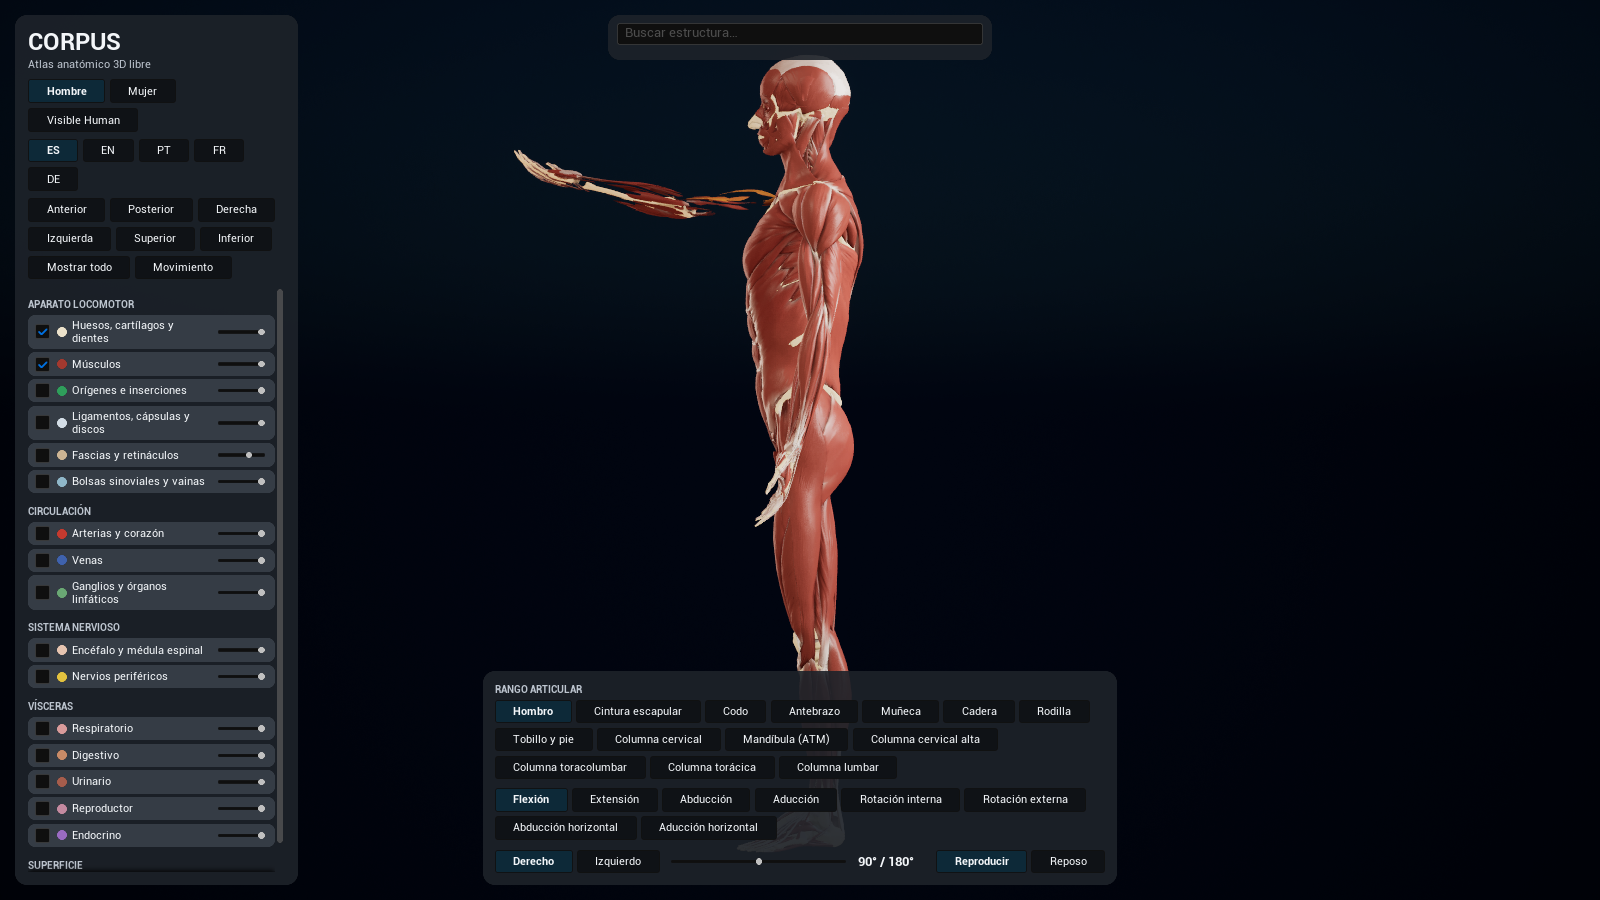
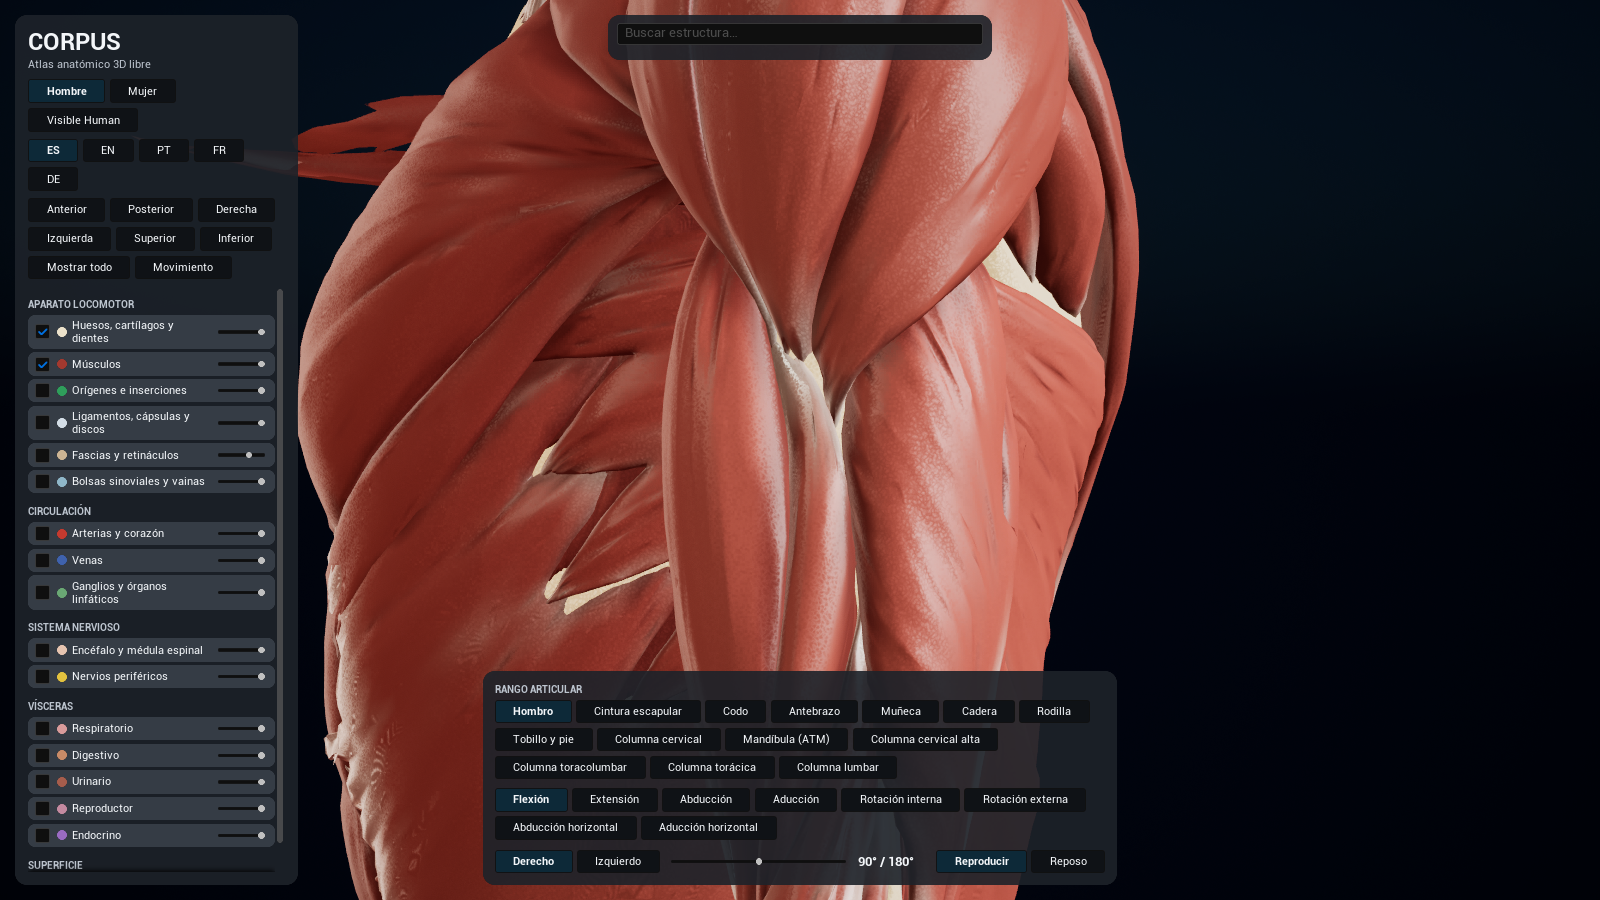
Unreal movimiento: musculos elasticos anclados al hueso y escapula sobre las costillas
Trapecio, romboides, serrato, deltoides y manguito con pesos armonicos entre sus anclajes oseos;
la escapula conserva su angulo inferior pegado a la parrilla costal (bascula anadida a la
acromioclavicular) y el dorsal ancho lo cubre. Capturas mov_13 y mov_14 de cerca.

diff --git a/tools/unreal/movimiento.js b/tools/unreal/movimiento.js
@@ -52,6 +52,12 @@ function vista(g, acc) {
   for (let i = 0; i < a.count; i++) for (let c = 0; c < nc; c++) out[i * nc + c] = f[(base >> 2) + i * st + c];
   return out;
 }
+function indices(g, acc) {
+  const a = g.j.accessors[acc], v = g.j.bufferViews[a.bufferView], o = g.bin.byteOffset + (v.byteOffset || 0) + (a.byteOffset || 0);
+  if (a.componentType === 5125) return new Uint32Array(g.bin.buffer.slice(o, o + a.count * 4));
+  if (a.componentType === 5123) return new Uint16Array(g.bin.buffer.slice(o, o + a.count * 2));
+  return new Uint8Array(g.bin.buffer.slice(o, o + a.count));
+}
 /* escribe el GLB con los TEXCOORD nuevos; el BIN se rehace solo con las vistas que se usan */
 function escribeGLB(f, g, nuevos) {
   const j = g.j, partes = [];
@@ -95,7 +101,8 @@ const PREPARA = `(async()=>{
   const b64e=u8=>{if(u8.toBase64)return u8.toBase64();let s='';for(let i=0;i<u8.length;i+=0x8000)s+=String.fromCharCode.apply(null,u8.subarray(i,i+0x8000));return btoa(s);};
   const b64d=s=>{if(Uint8Array.fromBase64)return Uint8Array.fromBase64(s);const b=atob(s),a=new Uint8Array(b.length);for(let i=0;i<b.length;i++)a[i]=b.charCodeAt(i);return a;};
   const AX=L.length+1,NA=L.length;
-  window.__movW=(en,side,sys,b64)=>{const u8=b64d(b64),pos=new Float32Array(u8.buffer,u8.byteOffset,u8.length>>2),n=pos.length/3;
+  const HARM=/^((Ascending|Descending|Transverse) part of trapezius|Rhomboid (major|minor)|Levator scapulae|Serratus anterior|Pectoralis minor|Subclavius|(Clavicular|Acromial|Scapular spinal) part of deltoid|Supraspinatus|Infraspinatus|Teres minor|Subscapularis)( muscle)?$/;
+  window.__movW=(en,side,sys,b64,b64i)=>{const u8=b64d(b64),pos=new Float32Array(u8.buffer,u8.byteOffset,u8.length>>2),n=pos.length/3;const i8=b64i?b64d(b64i):null,idx=i8?new Uint32Array(i8.buffer,i8.byteOffset,i8.length>>2):null;
     let x0=1e9,y0=1e9,z0=1e9,x1=-1e9,y1=-1e9,z1=-1e9;for(let i=0;i<n;i++){const x=pos[i*3],y=pos[i*3+1],z=pos[i*3+2];if(x<x0)x0=x;if(x>x1)x1=x;if(y<y0)y0=y;if(y>y1)y1=y;if(z<z0)z0=z;if(z>z1)z1=z;}
     const c=new V3((x0+x1)/2,(y0+y1)/2,(z0+z1)/2);let r=0;for(let i=0;i<n;i++)r=Math.max(r,Math.hypot(pos[i*3]-c.x,pos[i*3+1]-c.y,pos[i*3+2]-c.z));
     const m={userData:{c:{en,side},sys},geometry:{attributes:{position:{array:pos}},boundingSphere:{center:c,radius:r},index:null}};
@@ -111,6 +118,32 @@ const PREPARA = `(async()=>{
       const Ix=pos[bi*3],Iy=pos[bi*3+1],Iz=pos[bi*3+2],Wd=new Float32Array(n);
       for(let i=0;i<n;i++){let t=(Math.hypot(pos[i*3]-Ix,pos[i*3+1]-Iy,pos[i*3+2]-Iz)-TD[2])/TD[3];t=t<0?0:t>1?1:t;Wd[i]=1-t*t*(3-2*t);}
       L.forEach((k,q)=>{const [nd,sd]=k.split('_');if(sd===Sd&&TD[1].test(nd))Ws[q]=[Wd,true];else if(/^(elbow|fore|wrist|hip|knee)$/.test(nd)||(sd&&sd!==Sd&&/^(shoulder|acr|sc)$/.test(nd)))Ws[q]=[null,false];});}
+    /* Músculos tendidos entre dos huesos de la cintura escapular (mejora sobre la web, donde el trapecio, los romboides o
+       el serrato no acompañan a la escápula y lo que hay debajo los atraviesa). Cada músculo queda anclado a sus huesos:
+       donde toca la escápula va con ella, donde toca vértebras o costillas se queda, donde toca el húmero va con él.
+       Entre los anclajes el peso es armónico (ecuación de Laplace sobre la malla): el estiramiento se reparte de forma
+       continua por toda la fibra, sin escalones ni zonas rígidas. */
+    if(idx&&HARM.test(en)&&(side==='derecho'||side==='izquierdo')){const Sd=side==='derecho'?'R':'L';
+      if(!window.__huesos){const cs=0.012,H=new Map();for(const b of meshes){const u=b.userData;if(!u.c||BS(u.sys)!=='oseo'||u.sys!=='oseo')continue;const part=skPartOf(b),a=u.rest||b.geometry.attributes.position.array;
+          for(let i=0;i<a.length;i+=3){const k=Math.floor(a[i]/cs)+','+Math.floor(a[i+1]/cs)+','+Math.floor(a[i+2]/cs);let l=H.get(k);if(!l)H.set(k,l=[]);l.push(a[i],a[i+1],a[i+2],part);}}window.__huesos={cs,H};}
+      const {cs,H}=window.__huesos,RA=0.012,ESC=/trapezius|Rhomboid|Levator scapulae|Serratus anterior|Pectoralis minor|Subclavius/.test(en);/* ESC: unen tórax y escápula, no llegan al húmero */
+      /* vértices soldados por posición y vecinos */
+      const uid=new Int32Array(n),M=new Map();let nu=0;for(let v=0;v<n;v++){const k=Math.round(pos[v*3]*2e4)+','+Math.round(pos[v*3+1]*2e4)+','+Math.round(pos[v*3+2]*2e4);let q=M.get(k);if(q===undefined){q=nu++;M.set(k,q);}uid[v]=q;}
+      const rep=new Int32Array(nu).fill(-1);for(let v=0;v<n;v++)if(rep[uid[v]]<0)rep[uid[v]]=v;
+      const nb=Array.from({length:nu},()=>new Set());for(let t=0;t<idx.length;t+=3){const a=uid[idx[t]],b=uid[idx[t+1]],c=uid[idx[t+2]];if(a!==b){nb[a].add(b);nb[b].add(a);}if(b!==c){nb[b].add(c);nb[c].add(b);}if(a!==c){nb[a].add(c);nb[c].add(a);}}
+      const NB=nb.map(s=>Int32Array.from(s));
+      /* hueso más cercano a cada vértice (a menos de 12 mm) */
+      const ancla=new Array(nu).fill(null);for(let q=0;q<nu;q++){const v=rep[q],x=pos[v*3],y=pos[v*3+1],z=pos[v*3+2],fx=Math.floor(x/cs),fy=Math.floor(y/cs),fz=Math.floor(z/cs);let bd=RA*RA,bp=null;
+        for(let a=-1;a<=1;a++)for(let b=-1;b<=1;b++)for(let c=-1;c<=1;c++){const l=H.get((fx+a)+','+(fy+b)+','+(fz+c));if(!l)continue;for(let t=0;t<l.length;t+=4){const d=(l[t]-x)**2+(l[t+1]-y)**2+(l[t+2]-z)**2;if(d<bd){bd=d;bp=l[t+3];}}}ancla[q]=bp;}
+      for(const nodo of ['shoulder','acr','sc']){const kq=L.indexOf(nodo+'_'+Sd);if(kq<0)continue;if(ESC&&nodo==='shoulder'){Ws[kq]=[null,false];continue;}const W0=Ws[kq][0];
+        const fijo=new Float32Array(nu).fill(-1);let n0=0,n1=0;for(let q=0;q<nu;q++){if(ancla[q]===null)continue;const f=skF(ancla[q],nodo,Sd)>0?1:0;fijo[q]=f;if(f)n1++;else n0++;}
+        if(n0<4||n1<4)continue;/* sin dos anclajes distintos se dejan los pesos de la web */
+        const x=new Float32Array(nu);for(let q=0;q<nu;q++)x[q]=fijo[q]>=0?fijo[q]:(W0?Math.min(1,W0[rep[q]]):0.5);
+        for(let it=0;it<1500;it++){let dmax=0;for(let q=0;q<nu;q++){if(fijo[q]>=0)continue;const l=NB[q];if(!l.length)continue;let s=0;for(let t=0;t<l.length;t++)s+=x[l[t]];const nv=s/l.length,d=Math.abs(nv-x[q]);if(d>dmax)dmax=d;x[q]=nv;}if(dmax<2e-5)break;}
+        const Wn=new Float32Array(n);for(let v=0;v<n;v++)Wn[v]=x[uid[v]];Ws[kq]=[Wn,true];}
+      /* los que se insertan en la escapula la siguen igual en sus dos articulaciones (acromioclavicular y esternoclavicular) */
+      if(ESC&&!/Subclavius|Descending/.test(en)){const qa=L.indexOf('acr_'+Sd),qs=L.indexOf('sc_'+Sd);if(Ws[qs][0]&&!Ws[qa][0])Ws[qa]=[Ws[qs][0],Ws[qs][1]];}
+      L.forEach((k,q)=>{const [nd,sd]=k.split('_');if(/^(elbow|fore|wrist|hip|knee)$/.test(nd)||(sd&&sd!==Sd&&/^(shoulder|acr|sc)$/.test(nd)))Ws[q]=[null,false];});}
     /* articulaciones que mueven la pieza (algún vértice con peso ≥ 0,002), en el orden en que las aplica deform() */
     let S=[];for(let k=0;k<NA;k++){const W=Ws[k][0];if(!W)continue;let mx=0;for(let v=0;v<n;v++)if(W[v]>mx)mx=W[v];if(mx>=0.002)S.push({i:k+1,W,lin:Ws[k][1],mx});}
     /* articulaciones seguidas (en este orden) que pesan lo mismo en toda la pieza van juntas en un hueco, hasta 3:
@@ -196,6 +229,46 @@ const PREPARA = `(async()=>{
     const filas = caja.map((c, k) => { let a = [0, 0, 0, 0], m = 0; for (let d = -2; d <= 2; d++) { const q = caja[k + d]; if (!q || q[0] > q[1]) continue; for (let t = 0; t < 4; t++) a[t] += q[t]; m++; }
       if (!m) return [0, 0, 0]; a = a.map(v => v / m); return [f((a[2] + a[3]) / 2), f((a[1] - a[0]) / 2), f((a[3] - a[2]) / 2)]; });
     return { y0, dy, filas }; })();
+  /* ── mejora sobre la web: la escápula resbala pegada a las costillas ──
+     Con las posturas de la web, al rotar hacia arriba el ángulo inferior de la escápula se despega varios centímetros de
+     la parrilla costal (asoma por la espalda). Aquí se añade a la acromioclavicular el giro mínimo, alrededor del eje
+     perpendicular al brazo de palanca acromion → ángulo inferior, que devuelve el ángulo a su distancia de reposo del
+     contorno del tórax; la glenohumeral se recalcula para que el húmero quede exactamente donde estaba. */
+  {
+    const rig = JSON.parse(fs.readFileSync(path.join(RAIZ, 'data', 'rig.json'), 'utf8'));
+    const qAA = (ax, an) => { const s = Math.sin(an / 2); return [ax[0] * s, ax[1] * s, ax[2] * s, Math.cos(an / 2)]; };
+    const qMul = (a, b) => [a[3] * b[0] + a[0] * b[3] + a[1] * b[2] - a[2] * b[1], a[3] * b[1] - a[0] * b[2] + a[1] * b[3] + a[2] * b[0], a[3] * b[2] + a[0] * b[1] - a[1] * b[0] + a[2] * b[3], a[3] * b[3] - a[0] * b[0] - a[1] * b[1] - a[2] * b[2]];
+    const qInv = q => [-q[0], -q[1], -q[2], q[3]];
+    const qRot = (q, v) => { const u = [q[0], q[1], q[2]], c1 = [u[1] * v[2] - u[2] * v[1], u[2] * v[0] - u[0] * v[2], u[0] * v[1] - u[1] * v[0]].map(x => 2 * x);
+      const c2 = [u[1] * c1[2] - u[2] * c1[1], u[2] * c1[0] - u[0] * c1[2], u[0] * c1[1] - u[1] * c1[0]]; return v.map((x, i) => x + q[3] * c1[i] + c2[i]); };
+    const aAA = q => { if (q[3] < 0) q = q.map(x => -x); const an = 2 * Math.acos(Math.min(1, q[3])), s = Math.sqrt(Math.max(0, 1 - q[3] * q[3])); return s > 1e-6 ? [q[0] / s, q[1] / s, q[2] / s, an] : [1, 0, 0, 0]; };
+    const cont = y => { const h = Math.max(0, Math.min(torax.filas.length - 1.001, (y - torax.y0) / torax.dy)), a = Math.floor(h), f = h - a, A = torax.filas[a], B = torax.filas[a + 1]; return A.map((v, i) => v + (B[i] - v) * f); };
+    const kDe = p => { const c = cont(p[1]); return [Math.hypot(p[0] / c[1], (p[2] - c[0]) / c[2]), c]; };
+    const sobre = (p, piv, q) => qRot(q, p.map((x, i) => x - piv[i])).map((x, i) => x + piv[i]);
+    let nfix = 0, amax = 0;
+    for (const r of rom) for (const M of r.movs) for (const S of ['R', 'L']) { if (!M[S]) continue;
+      const iA = R.L.indexOf('acr_' + S), iC = R.L.indexOf('sc_' + S), iH = R.L.indexOf('shoulder_' + S), pA = R.piv[iA], pC = R.piv[iC], tip0 = rig['scapBot_' + S], k0 = kDe(tip0)[0];
+      M[S] = M[S].map(fr => { const ops = []; for (let k = 0; k < fr.length; k += 8) ops.push(fr.slice(k, k + 8));
+        const oA = ops.find(o => o[0] === iA); if (!oA) return fr;
+        const oC = ops.find(o => o[0] === iC), oH = ops.find(o => o[0] === iH);
+        const qA = qAA(oA.slice(1, 4), oA[4]), qC = oC ? qAA(oC.slice(1, 4), oC[4]) : [0, 0, 0, 1];
+        const tipA = sobre(tip0, pA, qA), fin = q => sobre(sobre(tip0, pA, q), pC, qC);
+        const [k1, c] = kDe(fin(qA)), tol = 0.004 / (0.5 * (c[1] + c[2]));
+        if (k1 <= k0 + tol) return fr;
+        /* eje: perpendicular a la palanca y a la normal de la pared torácica, llevado al marco anterior a la esternoclavicular */
+        const t = fin(qA), nrm = [t[0] / (c[1] * c[1]), 0, (t[2] - c[0]) / (c[2] * c[2])], v = t.map((x, i) => x - sobre(pA, pC, qC)[i]);
+        let eje = [v[1] * nrm[2] - v[2] * nrm[1], v[2] * nrm[0] - v[0] * nrm[2], v[0] * nrm[1] - v[1] * nrm[0]]; const le = Math.hypot(...eje); if (le < 1e-9) return fr; eje = qRot(qInv(qC), eje.map(x => x / le));
+        const kCon = an => kDe(fin(qMul(qAA(eje, an), qA)))[0];
+        /* el signo que acerca, y bisección hasta la distancia de reposo */
+        const sg = kCon(0.05) < kCon(-0.05) ? 1 : -1; let lo = 0, hi = 0.7;
+        if (kCon(sg * hi) > k0 + tol) lo = hi; else for (let it = 0; it < 24; it++) { const m = (lo + hi) / 2; if (kCon(sg * m) > k0 + tol) lo = m; else hi = m; }
+        const an = sg * (lo === 0.7 ? 0.7 : hi), qA2 = qMul(qAA(eje, an), qA); nfix++; amax = Math.max(amax, Math.abs(an));
+        const f5 = x => Math.round(x * 1e5) / 1e5, a2 = aAA(qA2);
+        oA[1] = f5(a2[0]); oA[2] = f5(a2[1]); oA[3] = f5(a2[2]); oA[4] = f5(a2[3]);
+        if (oH) { const qH = qAA(oH.slice(1, 4), oH[4]), h2 = aAA(qMul(qInv(qA2), qMul(qA, qH))); oH[1] = f5(h2[0]); oH[2] = f5(h2[1]); oH[3] = f5(h2[2]); oH[4] = f5(h2[3]); }
+        return ops.flat(); }); }
+    console.log('Escápula sobre las costillas: %d posturas corregidas, giro añadido máximo %s°', nfix, (amax * 57.2958).toFixed(1));
+  }
   const abrazo = {};
   for (const c of CUERPOS) { const g = leeGLB(path.join(IMP, c, 'muscular.glb'));
     abrazo[c] = g.j.nodes.filter(nd => /^(Latissimus dorsi muscle|Teres major muscle|.* of pectoralis major muscle)$/.test((nd.extras || {}).en || '')).map(nd => nd.name); }
@@ -227,7 +300,8 @@ const PREPARA = `(async()=>{
         for (const prim of g.j.meshes[nodo.mesh].primitives) {
           const pos = vista(g, prim.attributes.POSITION), n = pos.length / 3;
           for (const k of Object.keys(prim.attributes)) if (/^TEXCOORD_/.test(k)) delete prim.attributes[k];
-          const r = await E('(en,side,sys,b)=>__movW(en,side,sys,b)', ex.en || '', ex.lado || '', sys, Buffer.from(pos.buffer).toString('base64'));
+          const ind = f === 'muscular.glb' ? Buffer.from(Uint32Array.from(indices(g, prim.indices)).buffer).toString('base64') : '';
+          const r = await E('(en,side,sys,b,bi)=>__movW(en,side,sys,b,bi)', ex.en || '', ex.lado || '', sys, Buffer.from(pos.buffer).toString('base64'), ind);
           const w = r.w ? new Float32Array(new Uint8Array(Buffer.from(r.w, 'base64')).buffer) : new Float32Array(n * 8);
           nuevos.push([prim, w]); nv += n; if (r.moved) { mv++; P[nodo.name] = r.huecos; } if (r.over) { ov++; console.log('    aviso: %s (%s) usa %d articulaciones de más', nodo.name, ex.en, r.over); }
         }

diff --git a/unreal/CorpusAtlas/Content/Python/corpus_importar.py b/unreal/CorpusAtlas/Content/Python/corpus_importar.py
@@ -183,6 +183,33 @@ float wl = 0;
                 float s = lerp(1, kt / max(k1, 1e-4), val);
                 g.x *= s;
                 g.z = c1.x + (g.z - c1.x) * s;
+                // El borde superior del dorsal cubre el ángulo inferior de la escápula: al rotar la escápula hacia arriba
+                // (ritmo escapulohumeral) el ángulo se desliza hacia fuera por debajo del músculo, que se abomba sobre él.
+                if (HUG > 1.5)
+                {
+                    bool der = g0.x < 0;
+                    int ja = der ? ACR_R : ACR_L, jc = der ? SC_R : SC_L;
+                    float3 b = float3(der ? SBX : -(SBX), SBY, SBZ);
+                    float4 qa = Tex.Load(int3(ja, 0, 0)); float3 pa = Tex.Load(int3(ja, 1, 0)).xyz;
+                    float sa, ca; sincos(qa.w, sa, ca);
+                    float3 db = b - pa;
+                    b = db * ca + cross(qa.xyz, db) * sa + qa.xyz * dot(qa.xyz, db) * (1 - ca) + pa;
+                    float4 qc = Tex.Load(int3(jc, 0, 0)); float3 pc = Tex.Load(int3(jc, 1, 0)).xyz;
+                    sincos(qc.w, sa, ca);
+                    db = b - pc;
+                    b = db * ca + cross(qc.xyz, db) * sa + qc.xyz * dot(qc.xyz, db) * (1 - ca) + pc;
+                    // el dorsal queda siempre un poco por fuera de donde está el ángulo inferior en esta postura
+                    float hb = clamp((b.y - Y0) / DY, 0, 31);
+                    int ab = (int)floor(hb);
+                    float3 cb = lerp(Tex.Load(int3(ab, 3, 0)).xyz, Tex.Load(int3(min(ab + 1, 31), 3, 0)).xyz, hb - ab);
+                    float kb = length(float2(b.x / cb.y, (b.z - cb.x) / cb.z)) + 0.016 / (0.5 * (cb.y + cb.z));
+                    float kg = length(float2(g.x / c1.y, (g.z - c1.x) / c1.z));
+                    float cerca = 1 - smoothstep(0.045, 0.14, length(g - b));
+                    float kn = max(kg, lerp(kg, kb, cerca));
+                    float sb2 = kn / max(kg, 1e-4);
+                    g.x *= sb2;
+                    g.z = c1.x + (g.z - c1.x) * sb2;
+                }
             }
         }
     }
@@ -270,6 +297,12 @@ def _postura(g):
     mov = _datos_mov()
     codigo = (HLSL_POSTURA.replace("NA_TRONCO", str(len(mov["articulaciones"]) - 2))
               .replace("Y0", repr(float(mov["torax"]["y0"]))).replace("DY", repr(float(mov["torax"]["dy"]))))
+    arts = [a["id"] for a in mov["articulaciones"]]
+    with open(os.path.join(IMPORTAR, "datos", "rig.json"), encoding="utf-8") as h:
+        sb = json.load(h)["scapBot_R"]          # ángulo inferior de la escápula derecha (la izquierda, en espejo)
+    for k, v in (("ACR_R", arts.index("acr_R")), ("ACR_L", arts.index("acr_L")), ("SC_R", arts.index("sc_R")), ("SC_L", arts.index("sc_L")),
+                 ("SBX", sb[0]), ("SBY", sb[1]), ("SBZ", sb[2])):
+        codigo = codigo.replace(k, repr(v))
     cu = _custom(g, codigo, ["Tex", "P", "U0", "U1", "U2", "U3"] + ["J%d" % i for i in range(8)] + ["HUG"], CMOT.CMOT_FLOAT3,
                  extra=[("Q", CMOT.CMOT_FLOAT4)], desc="Postura (rig de la web)")
     g.une(tex, cu, "Tex")

diff --git a/unreal/CorpusAtlas/Source/CorpusAtlas/CorpusCuerpo.cpp b/unreal/CorpusAtlas/Source/CorpusAtlas/CorpusCuerpo.cpp
@@ -286,7 +286,8 @@ void ACorpusCuerpo::CargarCapa(const FString& Clave)
 			C->SetCustomPrimitiveDataVector4(12, FVector4(V[0], V[1], V[2], V[3]));
 			C->SetCustomPrimitiveDataVector4(16, FVector4(V[4], V[5], V[6], V[7]));
 		}
-		C->SetCustomPrimitiveDataFloat(20, D->SePegaAlTorax(Carpeta, P.Id) ? 1.f : 0.f);
+		// 1 = pegada a la parrilla costal; 2 = además cubre el ángulo inferior de la escápula (dorsal ancho)
+		C->SetCustomPrimitiveDataFloat(20, D->SePegaAlTorax(Carpeta, P.Id) ? (P.En.StartsWith(TEXT("Latissimus")) ? 2.f : 1.f) : 0.f);
 		if (RangoActual >= 0) { AjustarLimites(C); }
 		Piezas.Add(P.Id, C);
 		Ids.Add(P.Id);

diff --git a/unreal/LEEME.md b/unreal/LEEME.md
@@ -128,6 +128,17 @@ Reimportar las mallas (`importar_mallas`) tarda 1 h 45 min; `_aplanar` sustituye
 - **Pegados a la parrilla costal** (`abrazo` en `movimiento.json`, dato primitivo 20): fila 3 de la textura de postura =
   contorno del tórax cada 1,25 cm (centro z, radio x, radio z). Antes de girar el tronco, el material devuelve cada punto a
   su distancia de reposo al contorno, con holgura creciente hacia el húmero (misma regla que `latHug`, sin corte brusco).
+- **Músculos elásticos anclados a sus huesos** (tabla `HARM`: trapecio, romboides, elevador, serrato, pectoral menor,
+  subclavio, deltoides y manguito). En la web el trapecio y los romboides no acompañaban a la escápula y lo de debajo los
+  atravesaba. Cada vértice a menos de 12 mm de un hueso queda anclado a él y entre los anclajes el peso es armónico
+  (Laplace sobre la malla): el estiramiento se reparte de forma continua por toda la fibra.
+- **La escápula resbala pegada a las costillas:** con las posturas de la web el ángulo inferior se despegaba (hacían
+  falta hasta 20° para devolverlo). `movimiento.js` añade a la acromioclavicular la báscula mínima que lo deja a su
+  distancia de reposo del contorno del tórax y recalcula la glenohumeral (188 posturas). El dorsal ancho (dato primitivo
+  20 = 2) pasa además por fuera del ángulo inferior en cada postura.
+- Referencias del ritmo escapulohumeral: Braman et al. 2009 (0,43° de rotación superior por grado de elevación, relación
+  2,3:1) y Ludewig et al. 2009 (báscula posterior ≈ 19°, rotación posterior de la clavícula ≈ 31°); la tabla `ST_UR` de la
+  web ya los sigue en los huesos.
 - `node tools/unreal/movimiento.js --sin-pesos` rehace solo las posturas; `--solo=muscular` rehace los pesos de una capa
   (luego `ci.importar_mallas(["hombre/muscular", "mujer/muscular"])`, unos 12 minutos).
 - Pendiente de este repaso: pliegues finos en la axila (deltoides, bíceps, tríceps largo y manguito se cruzan), el brazo
